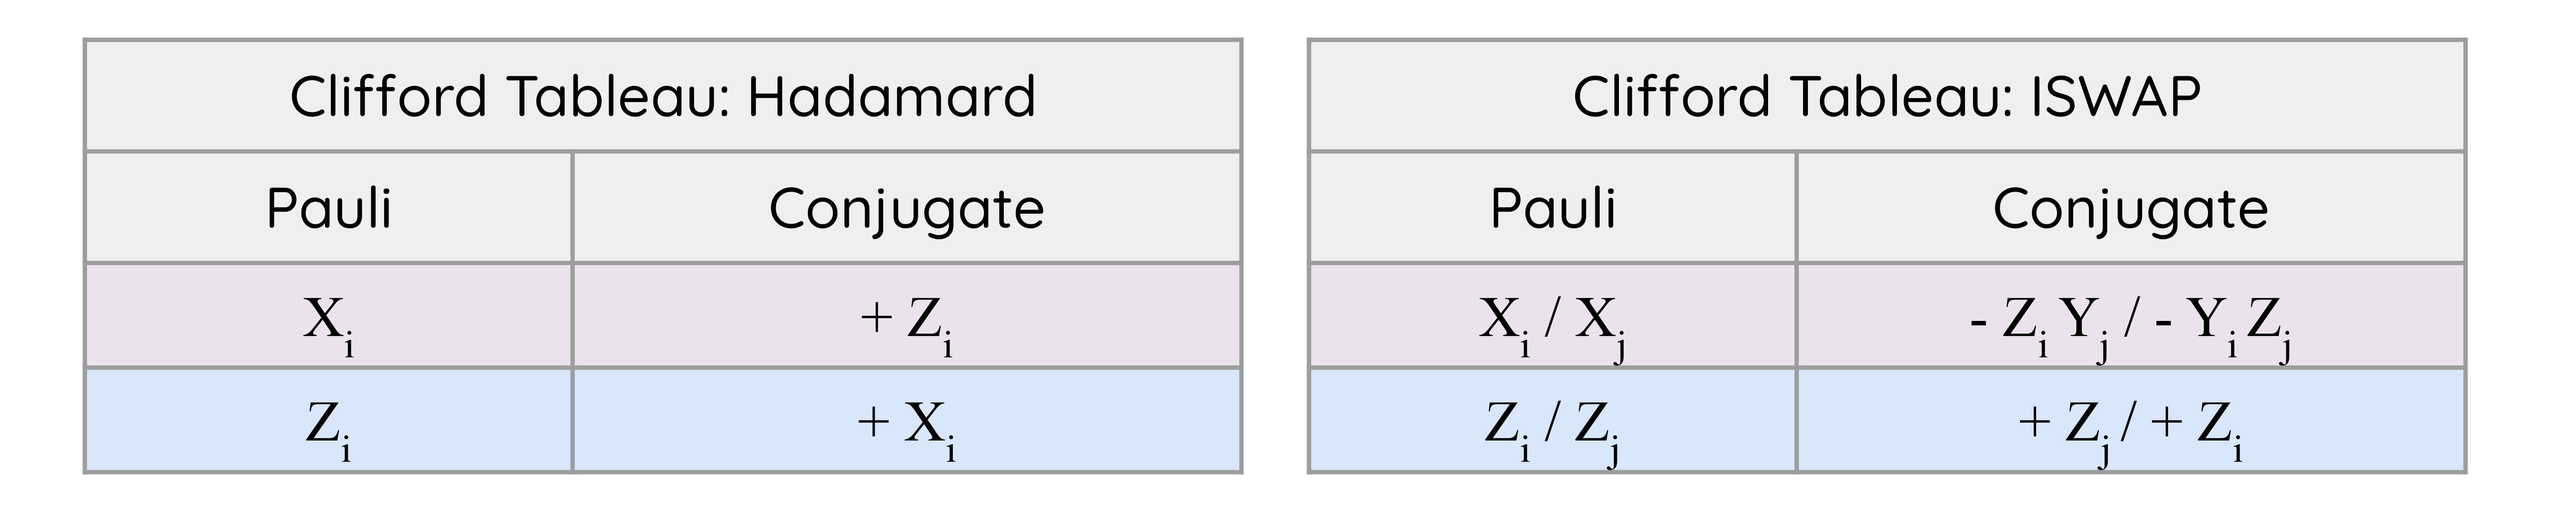
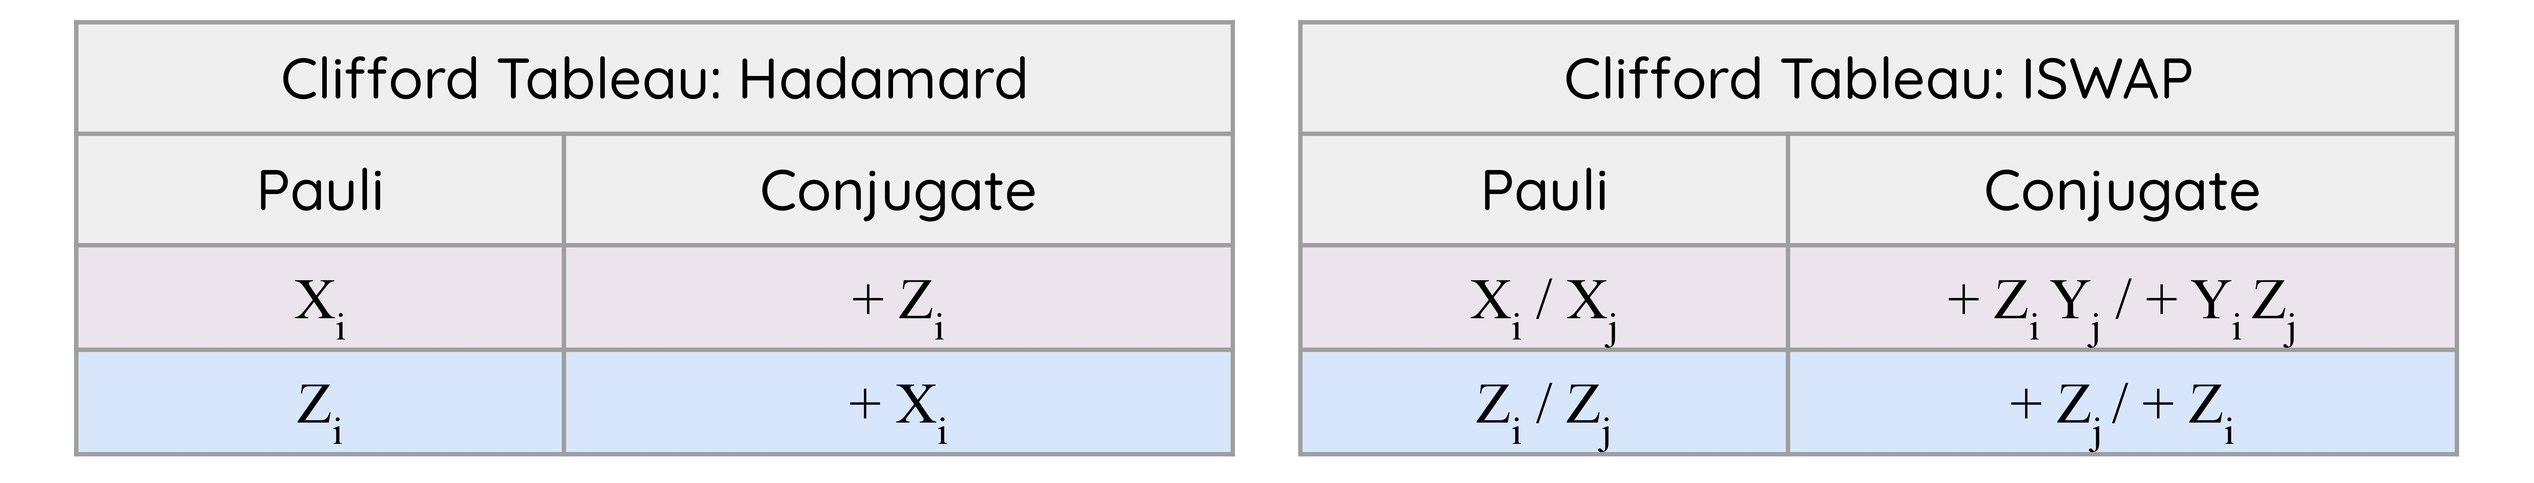
Change the ordering in Clifford demo (#1206)
Changes operator ordering in the Clifford demo based on user feedback.

diff --git a/demonstrations/tutorial_clifford_circuit_simulations.py b/demonstrations/tutorial_clifford_circuit_simulations.py
@@ -51,7 +51,7 @@ supported in PennyLane:
 | Each of these gates can be uniquely described by how they transform the Pauli words. For
   example, ``Hadamard`` conjugates :math:`X` to :math:`Z` and :math:`Z` to :math:`X`.
   Similarly, ``ISWAP`` acting on a subspace of qubits `i` and `j` conjugates :math:`X_{i}`
-  to :math:`-Z_{i}Y_{j}` and :math:`Z_{i}` to :math:`Z_{j}`. These transformations can
+  to :math:`Z_{i}Y_{j}` and :math:`Z_{i}` to :math:`Z_{j}`. These transformations can
   be presented in tabulated forms called *Clifford tableaus*, as shown below:
 
 .. figure:: ../_static/demonstration_assets/clifford_simulation/clifford_tableaus.jpeg
